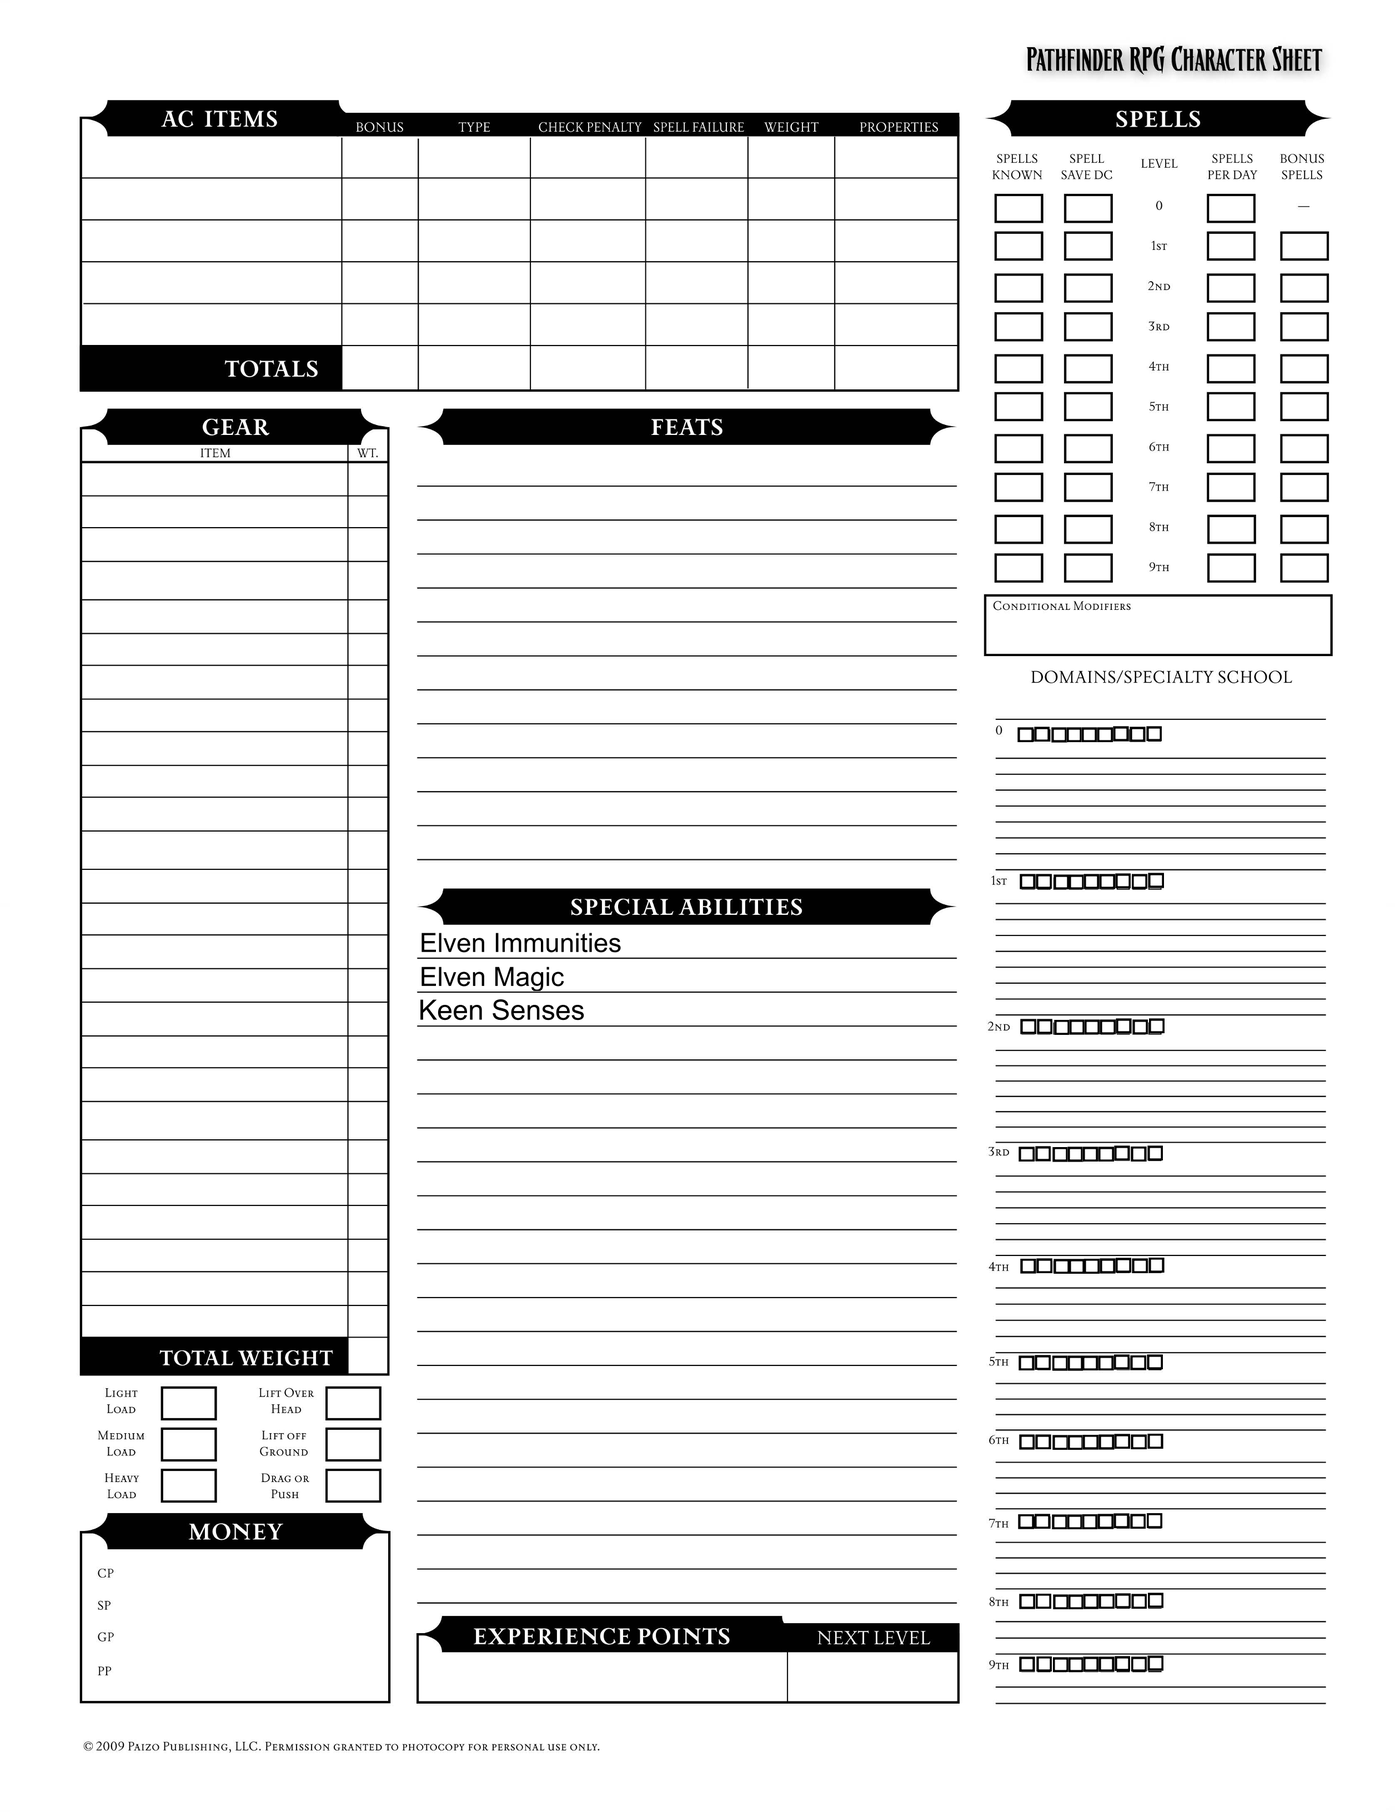
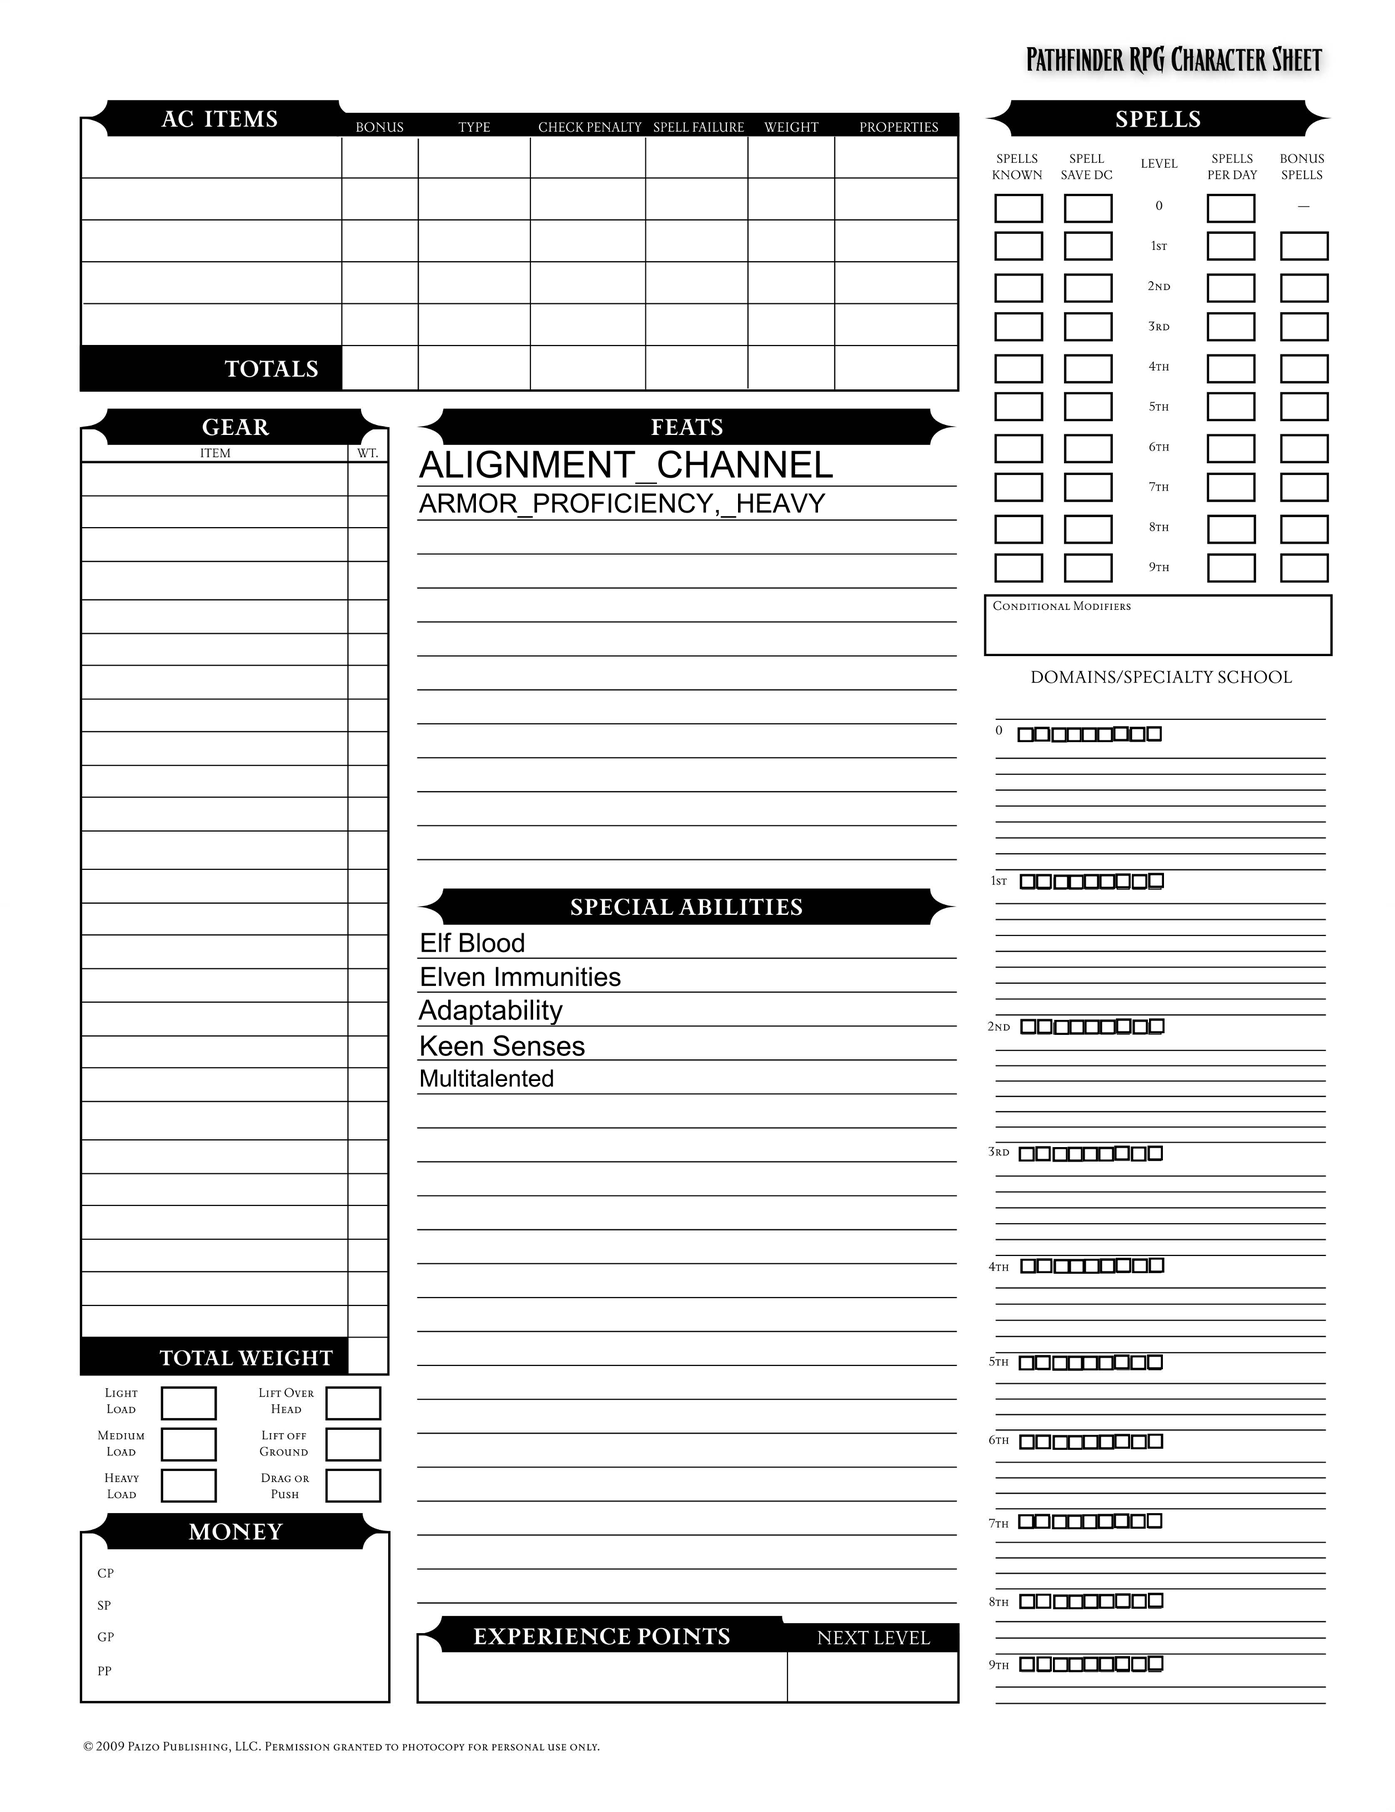
Small Changes 3
Added Feats update to character sheet

Changed region(s): [[0.3105, 0.4954, 0.4347, 0.6193], [0.3105, 0.2477, 0.59, 0.2787]]

diff --git a/src/cPathfinderCharacterControlObjects/CharacterOverviewTabControl.java b/src/cPathfinderCharacterControlObjects/CharacterOverviewTabControl.java
@@ -5,20 +5,24 @@ import java.io.File;
 import java.io.IOException;
 import java.net.URL;
 import java.util.ResourceBundle;
+import java.util.Set;
 
 import org.apache.pdfbox.pdmodel.PDDocument;
 import org.apache.pdfbox.pdmodel.interactive.form.PDAcroForm;
 import org.apache.pdfbox.rendering.PDFRenderer;
 import org.apache.pdfbox.tools.imageio.ImageIOUtil;
 
+import cPathfinderCharacterFeatObjects.Feat;
 import cPathfinderCharacterRaceObjects.RacialTrait;
 import cPathfinderCharacterSkillObjects.Skill;
 import cPathfinderCharacterViewModelObjects.PathfinderCharacterViewModel;
 import javafx.collections.transformation.SortedList;
 import javafx.fxml.FXML;
 import javafx.fxml.Initializable;
+import javafx.scene.control.ProgressIndicator;
 import javafx.scene.image.Image;
 import javafx.scene.image.ImageView;
+import javafx.scene.layout.VBox;
 
 public class CharacterOverviewTabControl implements Initializable {
 	PathfinderCharacterViewModel pcViewModel;
@@ -28,6 +32,8 @@ public class CharacterOverviewTabControl implements Initializable {
 	
 	@FXML ImageView characterSheetIV1;
 	@FXML ImageView characterSheetIV2;
+	@FXML ProgressIndicator progressIndicator;
+	@FXML VBox imageVB;
 
 	@Override
 	public void initialize(URL arg0, ResourceBundle arg1) {
@@ -51,27 +57,46 @@ public class CharacterOverviewTabControl implements Initializable {
 	}
 	
 	public void handleCharacterOverviewTabClick() {
-		try {
-			this.updateCharacterSheet();
-			
-			PDFRenderer renderer = new PDFRenderer(characterSheet);
-			BufferedImage image1 = renderer.renderImageWithDPI(0, 300);
-	    	BufferedImage image2 = renderer.renderImageWithDPI(1, 300);
-	    	  
-	    	Boolean imageOut1 = ImageIOUtil.writeImage(image1, "src/cPathfinderCharacterControlObjects/Editable-Pathfinder-Character-Sheet1.png", 300);
-	    	Boolean imageOut2 = ImageIOUtil.writeImage(image2, "src/cPathfinderCharacterControlObjects/Editable-Pathfinder-Character-Sheet2.png", 300);
-	    	//System.out.println(imageOut1);
-	    	//System.out.println(imageOut2);
-	    	
-	    	this.characterSheetIV1.setImage(new Image("File:src\\cPathfinderCharacterControlObjects\\Editable-Pathfinder-Character-Sheet1.png"));
-	    	this.characterSheetIV1.fitWidthProperty();
-	    	this.characterSheetIV1.preserveRatioProperty();
-			this.characterSheetIV2.setImage(new Image("File:src\\cPathfinderCharacterControlObjects\\Editable-Pathfinder-Character-Sheet2.png"));
-			this.characterSheetIV1.fitWidthProperty();
-	    	this.characterSheetIV1.preserveRatioProperty();
-		} catch (IOException e) {
-			e.printStackTrace();
-		}
+		this.progressIndicator.setVisible(true);
+		this.progressIndicator.setProgress(0);
+		Thread t = new Thread() {
+			@Override
+			public void run() {
+				try {
+					imageVB.setVisible(false);
+					
+					updateCharacterSheet();
+					PDFRenderer renderer = new PDFRenderer(characterSheet);
+					BufferedImage image1 = renderer.renderImageWithDPI(0, 300);
+			    	BufferedImage image2 = renderer.renderImageWithDPI(1, 300);
+			    	progressIndicator.setProgress(.25);
+			    	  
+			    	Boolean imageOut1 = ImageIOUtil.writeImage(image1, "src/cPathfinderCharacterControlObjects/Editable-Pathfinder-Character-Sheet1.png", 300);
+			    	progressIndicator.setProgress(.50);
+			    	Boolean imageOut2 = ImageIOUtil.writeImage(image2, "src/cPathfinderCharacterControlObjects/Editable-Pathfinder-Character-Sheet2.png", 300);
+			    	
+			    	characterSheetIV1.setImage(new Image("File:src\\cPathfinderCharacterControlObjects\\Editable-Pathfinder-Character-Sheet1.png"));
+			    	characterSheetIV1.fitWidthProperty();
+			    	characterSheetIV1.preserveRatioProperty();
+			    	progressIndicator.setProgress(.75);
+					characterSheetIV2.setImage(new Image("File:src\\cPathfinderCharacterControlObjects\\Editable-Pathfinder-Character-Sheet2.png"));
+					characterSheetIV1.fitWidthProperty();
+			    	characterSheetIV1.preserveRatioProperty();
+			    	progressIndicator.setProgress(1);
+			    	
+			    	try {
+			    		Thread.sleep(500);
+			    	} catch (InterruptedException e) {}
+			    	
+			    	progressIndicator.setVisible(false);
+			    	imageVB.setVisible(true);
+				} catch (IOException e) {
+					e.printStackTrace();
+				}
+			}
+		};
+		
+		t.start();
 	}
 	
 	private void updateCharacterSheet() {
@@ -176,7 +201,18 @@ public class CharacterOverviewTabControl implements Initializable {
 	}
 	
 	private void setFeatsTabFields(PDAcroForm form) throws IOException {
-		//TODO
+		//Reset Feats
+		for (int counter = 1; counter < 14; counter++) {
+			form.getField("Feat " + counter).setValue("");
+		}
+		
+		//Set Feats
+		Set<Feat> feats = pcViewModel.getFeats();
+		int counter = 1;
+		for (Feat feat : feats) {
+			form.getField("Feat " + counter).setValue(feat.getName());
+			counter++;
+		}
 	}
 	
 	private void setSpellsTabFields(PDAcroForm form) throws IOException {

diff --git a/src/cPathfinderCharacterControlObjects/AbilityScoreTabControl.java b/src/cPathfinderCharacterControlObjects/AbilityScoreTabControl.java
@@ -374,26 +374,28 @@ public class AbilityScoreTabControl implements Initializable {
 	
 	
 	public void intializeRaceTF() {
-		this.strengthRaceTF.setText(Integer.toString(pcViewModel.getRace().getAbilityModifiers()[0]));
-		this.dexterityRaceTF.setText(Integer.toString(pcViewModel.getRace().getAbilityModifiers()[1]));
-		this.constitutionRaceTF.setText(Integer.toString(pcViewModel.getRace().getAbilityModifiers()[2]));
-		this.intelligenceRaceTF.setText(Integer.toString(pcViewModel.getRace().getAbilityModifiers()[3]));
-		this.wisdomRaceTF.setText(Integer.toString(pcViewModel.getRace().getAbilityModifiers()[4]));
-		this.charismaRaceTF.setText(Integer.toString(pcViewModel.getRace().getAbilityModifiers()[5]));
-		
-		this.strengthTotalTF.setText(Integer.toString(this.strengthScoreCB.getValue() + Integer.parseInt(this.strengthRaceTF.getText())));
-		this.dexterityTotalTF.setText(Integer.toString(this.dexterityScoreCB.getValue() + Integer.parseInt(this.dexterityRaceTF.getText())));
-		this.constitutionTotalTF.setText(Integer.toString(this.constitutionScoreCB.getValue() + Integer.parseInt(this.constitutionRaceTF.getText())));
-		this.intelligenceTotalTF.setText(Integer.toString(this.intelligenceScoreCB.getValue() + Integer.parseInt(this.intelligenceRaceTF.getText())));
-		this.wisdomTotalTF.setText(Integer.toString(this.wisdomScoreCB.getValue() + Integer.parseInt(this.wisdomRaceTF.getText())));
-		this.charismaTotalTF.setText(Integer.toString(this.charismaScoreCB.getValue() + Integer.parseInt(this.charismaRaceTF.getText())));
-		
-		this.strengthModifierTF.setText(Integer.toString(AbilityScore.abilityScoreToModifier(Integer.parseInt(this.strengthTotalTF.getText()))));
-		this.dexterityModifierTF.setText(Integer.toString(AbilityScore.abilityScoreToModifier(Integer.parseInt(this.dexterityTotalTF.getText()))));
-		this.constitutionModifierTF.setText(Integer.toString(AbilityScore.abilityScoreToModifier(Integer.parseInt(this.constitutionTotalTF.getText()))));
-		this.intelligenceModifierTF.setText(Integer.toString(AbilityScore.abilityScoreToModifier(Integer.parseInt(this.intelligenceTotalTF.getText()))));
-		this.wisdomModifierTF.setText(Integer.toString(AbilityScore.abilityScoreToModifier(Integer.parseInt(this.wisdomTotalTF.getText()))));
-		this.charismaModifierTF.setText(Integer.toString(AbilityScore.abilityScoreToModifier(Integer.parseInt(this.charismaTotalTF.getText()))));
+		if (pcViewModel.getRace() != null) {
+			this.strengthRaceTF.setText(Integer.toString(pcViewModel.getRace().getAbilityModifiers()[0]));
+			this.dexterityRaceTF.setText(Integer.toString(pcViewModel.getRace().getAbilityModifiers()[1]));
+			this.constitutionRaceTF.setText(Integer.toString(pcViewModel.getRace().getAbilityModifiers()[2]));
+			this.intelligenceRaceTF.setText(Integer.toString(pcViewModel.getRace().getAbilityModifiers()[3]));
+			this.wisdomRaceTF.setText(Integer.toString(pcViewModel.getRace().getAbilityModifiers()[4]));
+			this.charismaRaceTF.setText(Integer.toString(pcViewModel.getRace().getAbilityModifiers()[5]));
+			
+			this.strengthTotalTF.setText(Integer.toString(this.strengthScoreCB.getValue() + Integer.parseInt(this.strengthRaceTF.getText())));
+			this.dexterityTotalTF.setText(Integer.toString(this.dexterityScoreCB.getValue() + Integer.parseInt(this.dexterityRaceTF.getText())));
+			this.constitutionTotalTF.setText(Integer.toString(this.constitutionScoreCB.getValue() + Integer.parseInt(this.constitutionRaceTF.getText())));
+			this.intelligenceTotalTF.setText(Integer.toString(this.intelligenceScoreCB.getValue() + Integer.parseInt(this.intelligenceRaceTF.getText())));
+			this.wisdomTotalTF.setText(Integer.toString(this.wisdomScoreCB.getValue() + Integer.parseInt(this.wisdomRaceTF.getText())));
+			this.charismaTotalTF.setText(Integer.toString(this.charismaScoreCB.getValue() + Integer.parseInt(this.charismaRaceTF.getText())));
+			
+			this.strengthModifierTF.setText(Integer.toString(AbilityScore.abilityScoreToModifier(Integer.parseInt(this.strengthTotalTF.getText()))));
+			this.dexterityModifierTF.setText(Integer.toString(AbilityScore.abilityScoreToModifier(Integer.parseInt(this.dexterityTotalTF.getText()))));
+			this.constitutionModifierTF.setText(Integer.toString(AbilityScore.abilityScoreToModifier(Integer.parseInt(this.constitutionTotalTF.getText()))));
+			this.intelligenceModifierTF.setText(Integer.toString(AbilityScore.abilityScoreToModifier(Integer.parseInt(this.intelligenceTotalTF.getText()))));
+			this.wisdomModifierTF.setText(Integer.toString(AbilityScore.abilityScoreToModifier(Integer.parseInt(this.wisdomTotalTF.getText()))));
+			this.charismaModifierTF.setText(Integer.toString(AbilityScore.abilityScoreToModifier(Integer.parseInt(this.charismaTotalTF.getText()))));
+		}
 	}
 
 }

diff --git a/src/cPathfinderCharacterFeatObjects/CharacterFeats.java b/src/cPathfinderCharacterFeatObjects/CharacterFeats.java
@@ -3,6 +3,7 @@ package cPathfinderCharacterFeatObjects;
 import java.util.ArrayList;
 import java.util.Arrays;
 import java.util.HashMap;
+import java.util.HashSet;
 import java.util.Map;
 import java.util.Set;
 
@@ -12,7 +13,7 @@ import cPathfinderCharacterSkillObjects.Skill;
 
 public class CharacterFeats implements CharacterModifier {
 	//Instance Variables:
-	protected ArrayList<Feat> characterFeats = new ArrayList<Feat>();
+	protected Set<Feat> feats = new HashSet<Feat>();
 	protected Map<Skill, Integer> skillRanksToAdd = new HashMap<Skill, Integer>();
 	protected int[] savingThrowModifiers = {0, 0, 0};
 	protected int bonusSkillRanks = 0;
@@ -24,7 +25,7 @@ public class CharacterFeats implements CharacterModifier {
 	//Constructors:
 	
 	//Methods:
-	public ArrayList<Feat> getFeats() {return this.characterFeats;}
+	public Set<Feat> getFeats() {return this.feats;}
 	public ArrayList<String> getFeatDescriptions() {return this.featDescriptionsToAdd;}
 	public Map<Skill, Integer> getSkillRanks() {return this.skillRanksToAdd;}
 	
@@ -35,7 +36,7 @@ public class CharacterFeats implements CharacterModifier {
 	public int getInitiativeModifier() {return this.initiativeModifier;}
 	
 	public void addFeat(Feat feat) {
-		this.characterFeats.add(feat);
+		this.feats.add(feat);
 		if (feat.shouldUpdateCharacterSheet()) {
 			Map<String, String> featUpdateInfo = feat.getInfoToUpdateCharacterSheet();
 			Set<String> keys = featUpdateInfo.keySet();
@@ -64,15 +65,15 @@ public class CharacterFeats implements CharacterModifier {
 			}
 		}
 		else {
-			this.featDescriptionsToAdd.add(feat.getFeatName().replace("_", " ") + ": " + feat.getBenefit());
+			this.featDescriptionsToAdd.add(feat.getName().replace("_", " ") + ": " + feat.getBenefit());
 		}
 	}
 	
 	@Override 
 	public String toString() {
 		String outputString = "";
-		for (Feat feat : this.characterFeats) {
-			outputString += feat.getFeatName() + " ";
+		for (Feat feat : this.feats) {
+			outputString += feat.getName() + " ";
 		}
 		return outputString;
 	}

diff --git a/src/cPathfinderCharacterControlObjects/FeatsTabControl.java b/src/cPathfinderCharacterControlObjects/FeatsTabControl.java
@@ -8,6 +8,7 @@ import java.util.ResourceBundle;
 
 import cPathfinderCharacterFeatObjects.Feat;
 import cPathfinderCharacterSkillObjects.Skill;
+import cPathfinderCharacterViewModelObjects.PathfinderCharacterViewModel;
 import javafx.beans.value.ChangeListener;
 import javafx.beans.value.ObservableValue;
 import javafx.collections.FXCollections;
@@ -26,6 +27,9 @@ import javafx.util.Callback;
 import javafx.scene.control.cell.TextFieldListCell;
 
 public class FeatsTabControl implements Initializable {
+	private PathfinderCharacterViewModel pcViewModel;
+	public void setPcViewModel(PathfinderCharacterViewModel pcViewModel) {this.pcViewModel = pcViewModel;}
+	
 	private ObservableList<String> featNames;
 	private ObservableList<String> featNamesFiltered;
 	
@@ -113,6 +117,7 @@ public class FeatsTabControl implements Initializable {
 			}
 			else {
 				yourFeatsListView.getItems().add(featName);
+				this.pcViewModel.addFeat(new Feat(Feat.formatFeatName(featName)));
 			}
 		}
 	}
@@ -120,6 +125,7 @@ public class FeatsTabControl implements Initializable {
 	@FXML public void removeFeatButtonPress(ActionEvent event) {
 		int itemToRemove = this.yourFeatsListView.getSelectionModel().getSelectedIndex();
 		if (itemToRemove != -1) {
+			pcViewModel.removeFeat(new Feat(Feat.formatFeatName(this.yourFeatsListView.getItems().get(itemToRemove))));
 			this.yourFeatsListView.getItems().remove(itemToRemove);
 		}
 	}

diff --git a/src/cPathfinderCharacterViewModelObjects/PathfinderCharacterViewModel.java b/src/cPathfinderCharacterViewModelObjects/PathfinderCharacterViewModel.java
@@ -1,8 +1,12 @@
 package cPathfinderCharacterViewModelObjects;
 
+import java.util.ArrayList;
+import java.util.HashSet;
+import java.util.List;
 import java.util.Set;
 
 import cPathfinderCharacterClassObjects.CharacterClass;
+import cPathfinderCharacterFeatObjects.Feat;
 import cPathfinderCharacterObjects.Alignment;
 import cPathfinderCharacterObjects.PathfinderCharacter;
 import cPathfinderCharacterRaceObjects.Race;
@@ -153,6 +157,14 @@ public class PathfinderCharacterViewModel {
 	
 	public SimpleIntegerProperty getSkillBonus(Skill skill) {return new SimpleIntegerProperty(pcModel.getSkillBonus(skill));}
 	
+	 //Feat Methods:
+	public void addFeat(Feat feat) {pcModel.getCharacterFeats().addFeat(feat);}
+	public void removeFeat(Feat feat) {
+		Set<Feat> feats = pcModel.getCharacterFeats().getFeats();
+		if (feats.contains(feat)) {feats.remove(feat);}
+		else {}
+	}
+	public Set<Feat> getFeats() {return pcModel.getCharacterFeats().getFeats();}
 	
 	
 	

diff --git a/src/cPathfinderCharacterFeatObjects/Feat.java b/src/cPathfinderCharacterFeatObjects/Feat.java
@@ -134,7 +134,7 @@ public class Feat {
 	}
 	
 	//Methods:
-	public String getFeatName() {return this.name;}
+	public String getName() {return this.name;}
 	public FeatPrerequisite getFeatPrerequisite() {return this.featPrerequisite;}
 	public String getFeatPrerequisiteAsString() {return this.featPrerequisiteAsString;}
 	public String getBenefit() {return this.benefit;}
@@ -146,6 +146,25 @@ public class Feat {
 	public boolean getIsMetaMagicFeat() {return this.isMetamagicFeat;}
 	public Set<String> getTags() {return this.tags;}
 	
+	@Override
+	public String toString() {
+		return this.name;
+	}
+	
+	@Override
+	public boolean equals(Object o) {
+		if (!(o instanceof Feat)) {return false;}
+		else {
+			Feat feat = (Feat) o;
+			if (feat.getName().equals(this.getName())) {return true;}
+			else {return false;}
+		}
+	}
+	
+	@Override
+	public int hashCode() {
+		return this.getName().hashCode();
+	}
 	
 
 }

diff --git a/src/cPathfinderCharacterControlObjects/MainPageControl.java b/src/cPathfinderCharacterControlObjects/MainPageControl.java
@@ -71,6 +71,7 @@ public class MainPageControl implements Initializable {
 	@FXML private SkillsTabControl skillsTabFieldController;
 	@FXML private ClassTabControl classTabFieldController;
 	@FXML private CharacterOverviewTabControl characterOverviewTabFieldController;
+	@FXML private FeatsTabControl featsTabFieldController;
 	
 	//FXML Tabs
 	@FXML Tab skillsTab;
@@ -109,6 +110,7 @@ public class MainPageControl implements Initializable {
 		this.skillsTabFieldController.setPcViewModel(pcViewModel);
 		this.classTabFieldController.setPcViewModel(pcViewModel);
 		this.characterOverviewTabFieldController.setPcViewModel(pcViewModel);
+		this.featsTabFieldController.setPcViewModel(pcViewModel);
 	}
 	
 	

diff --git a/src/cPathfinderCharacterObjects/PathfinderCharacter.java b/src/cPathfinderCharacterObjects/PathfinderCharacter.java
@@ -194,7 +194,7 @@ public class PathfinderCharacter {
 	public CharacterFeats getCharacterFeats() {return this.characterFeats;}
 	public void setCharacterFeats(CharacterFeats characterFeats) {this.characterFeats = characterFeats;}
 	
-	public ArrayList<Feat> getFeats() {return this.characterFeats.getFeats();}
+	public Set<Feat> getFeats() {return this.characterFeats.getFeats();}
 	public ArrayList<String> getFeatDescriptions() {return this.characterFeats.getFeatDescriptions();}
 	
 	 //Special Ability Methods:

diff --git a/src/cPathfinderCharacterControlObjects/SkillsTabControl.java b/src/cPathfinderCharacterControlObjects/SkillsTabControl.java
@@ -134,6 +134,7 @@ public class SkillsTabControl implements Initializable {
                         totalSkillBonusCol.setCellValueFactory(ov -> {
                         	return pcViewModel.getSkillBonus(ov.getValue()).asObject();  
             			});
+                        
                         totalSkillBonusCol.setVisible(false);
                         totalSkillBonusCol.setVisible(true);
                         setGraphic(skillRanksSpinner);

diff --git a/src/cTestCases/TestPathfinderCharacter.java b/src/cTestCases/TestPathfinderCharacter.java
@@ -146,7 +146,7 @@ public class TestPathfinderCharacter {
 		for (String featName : featNames) {
 			String formattedFeatName = Feat.formatFeatName(featName);
 			Feat feat = new Feat(formattedFeatName);
-			System.out.println(feat.getFeatName() + feat.getTags().toString());
+			System.out.println(feat.getName() + feat.getTags().toString());
 			charFeats.addFeat(feat);
 		}
 		System.out.println(charFeats.modificationsToString());

diff --git a/src/cPathfinderCharacterControlObjects/NewCharacter_LoadCharacterControl.java b/src/cPathfinderCharacterControlObjects/NewCharacter_LoadCharacterControl.java
@@ -11,7 +11,6 @@ import javafx.fxml.FXML;
 import javafx.fxml.FXMLLoader;
 import javafx.fxml.Initializable;
 import javafx.stage.Stage;
-import sun.applet.Main;
 import javafx.scene.Parent;
 import javafx.scene.Scene;
 import javafx.scene.control.Button;
